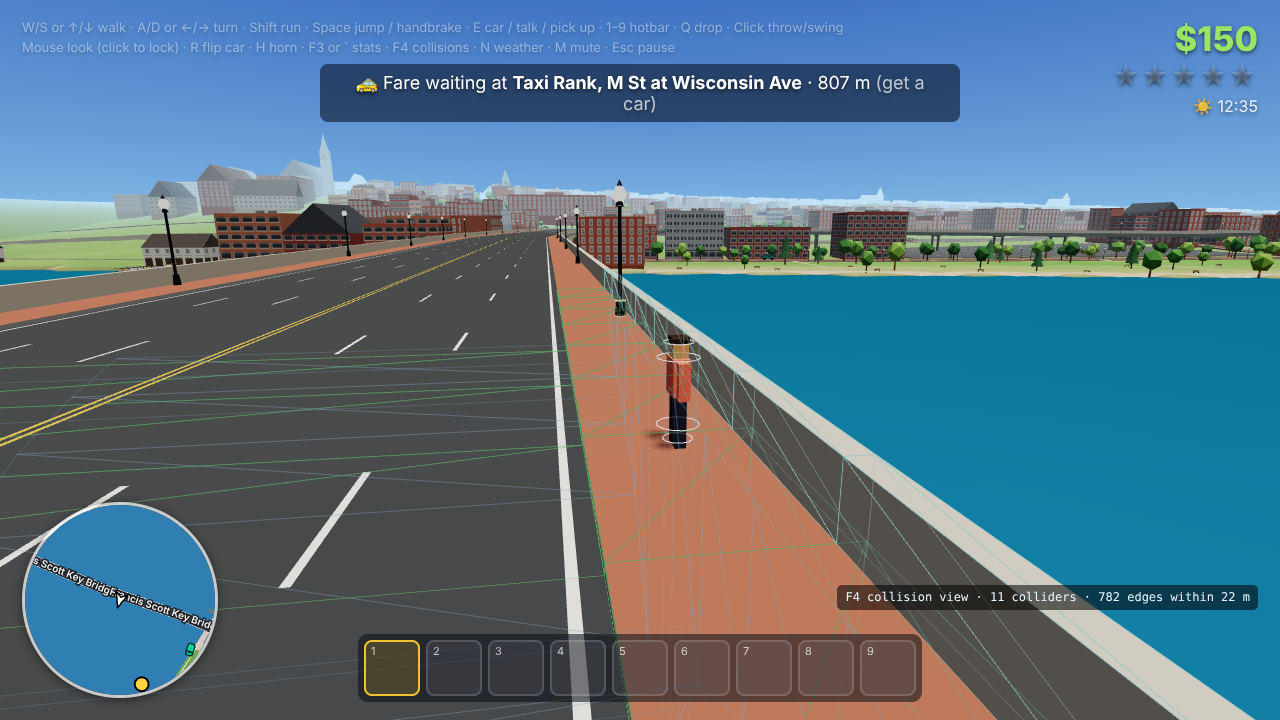
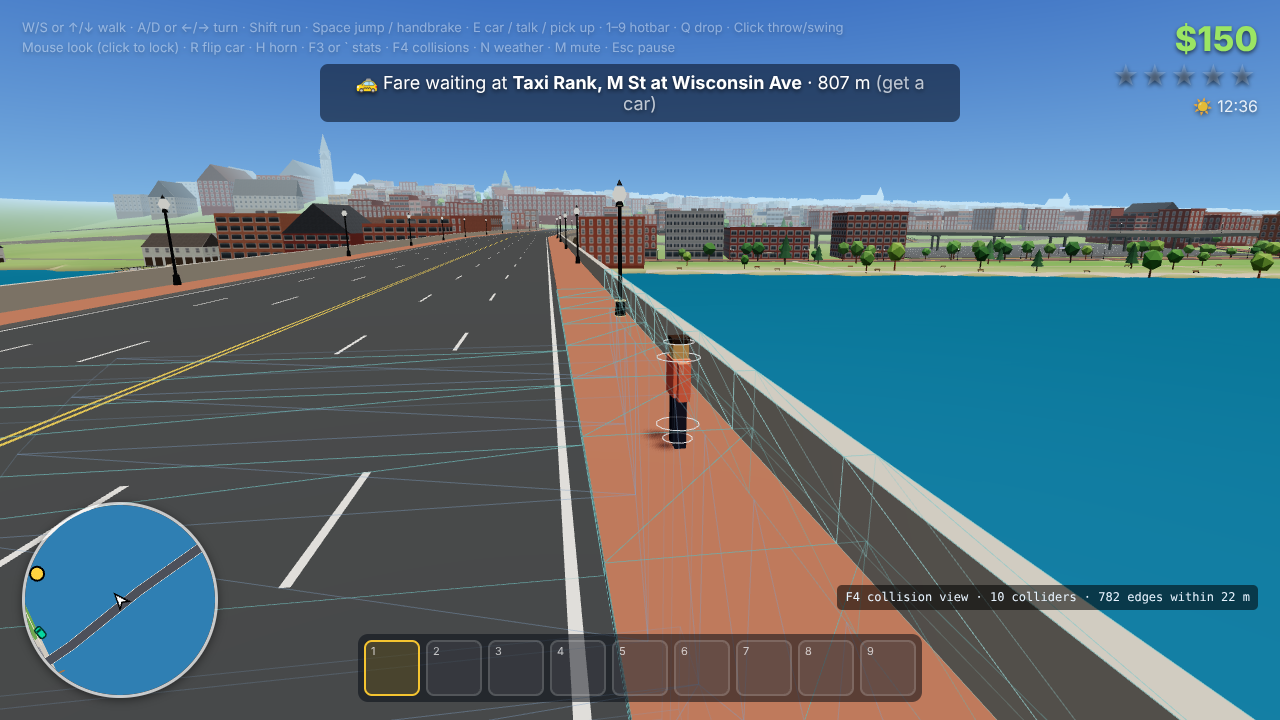
Physics review: DEVLOG and roadmap status, screenshots from the final build
DEVLOG (2026-11-05, Stage 1): the review of item 1 (what was checked, fixed, tested, measured, and what is left).
ROADMAP item 1: done, with the leftovers named. Screenshots: 31-physics-stairs and 31-physics-f4-* retaken on the
final build; new 31-physics-footbridge-north (the north end over the canal wall) and 31-physics-street-trees
(Dumbarton St, trees in the furnishing strip).

Claude-Session: https://claude.ai/code/session_012Y9CQc2geJ2jhDimLjKczQ

diff --git a/DEVLOG.md b/DEVLOG.md
@@ -815,3 +815,58 @@ Format: date · what changed · what to test · known issues.
   - The `stairs` scenario does not walk into a fountain, boat, building or tower (no clear approach found). The audit's side probes cover them.
   - Boot to first frame on Georgetown is 2.4 s longer at 4x throttle (about 0.6 s unthrottled): the extra colliders and the stairwell clipping.
   - Crashspikes on Georgetown spikes up to 150 ms in physics in both the base and this branch. `gate2` and `handling` on Georgetown don't reach their test conditions in the base either.
+
+### Review of item 1 (stairs and collisions), independent check and fixes (branch `s1-physics`)
+
+- **Merge.** main (8192ea1: traffic and police on the lane graph, life on the streets) is merged into `s1-physics`. The conflicts in `main.ts`, `world.ts`, `scenarios.mjs` and this file keep both sides.
+- **The owner's walk-through stairs** were the house stoops (no collider at all before this branch) and the canal steps (buried under the sidewalks, the canal wall across them). Checked on the merged build: 186 of 189 stoops sampled across Georgetown (every 13th of 2,606) are walked up to the landing and back down with W held. The 3 flagged ones are the test's own start position (put against a kerb face or beside a tree), and one stoop whose foot sits in a frontage strip 0.35 m below the sidewalk on a steep street (that was there before; on the base the strip is 0.4–0.5 m lower). All 8 stairs and the 5 stoop heights in `stairs` pass.
+- **`map.heightAt` is now the collider surface** (new `src/systems/map/surfaceIndex.ts`). The ground, kerbs, sidewalks, lots, canal aprons and stair ramps are trimesh colliders; their triangles are kept when the trimeshes are built (`PhysChunks.keepTriangles`) and indexed in 4 m buckets. `heightAt` takes the highest one there (with a height, the highest at most `map.levelStep` above it), and the raster only where no triangle covers the point (inside buildings, open water). Deck carriageways, their kerbs and sidewalks, deck junctions and the footbridges are now `deck` colliders (they were `ground`, so the ground under a bridge would have read as the bridge), and the walk surface reads the deck triangles (with the analytic deck profiles where a deck runs off the map edge past its last triangle) and the boardwalk piers. No allocation per query.
+  - 200,000 random points: heightAt was more than 5 cm off the collider at 1.6 % of the walkable ground (up to 1.3 m by the canal); now 0 of 128,303 points differ by more than 2 cm.
+  - Every bridge lane every 2 m (24,163 points across Key Bridge, the freeway and the street bridges): 61 % were more than 5 cm off (Key Bridge a kerb high, the freeway up to 0.5 m); now 0.
+- **Grid sink.** The grid's ground was one 1 km cuboid. Rapier's shape casts are about 9 cm wrong on a shape that size, and the character sank 5 cm into the ground standing still at a third of the spots tried (not only at the one fallthrough found). The ground and sea floor are now 120 m tiles, one per static body: 0 of 81 spots sink.
+- **Fallthrough's 2 m "hovers"** were the test dropping the capsule inside a bridge deck and a bridge pier (it dropped from 2 m above the terrain under them). It now drops 2 m above whatever covers the spot (`raised`), waits until the player has actually stopped moving (a capsule that lands on a steep bank slides for a few frames: the 0.26 m hover), resets knock-back and keys between drops, and finds a capsule resting on a step's or ledge's edge from the floor under its whole round bottom, skin gap included. `FALL_SEED=<n>` picks another set of points. The criteria are unchanged.
+- **Street trees and lamps.** The synthesized data (`meta.synthetic`) put 137 trees right on the sidewalks' walk links (81 on Dumbarton St, 42 on Potomac St): its sidewalk lines and the generator's road widths differ. A synthesized tree or lamp on a sidewalk now stands in the furnishing strip (`TUNING.geo.streetTreeKerbOffset` 0.7 m, `streetLampKerbOffset` 0.45 m from the kerb) at the same distance along the street. A moved tree is dropped at a junction corner, a driveway, within 7 m of a crossing or 2 m of a lamp or another tree (4,810 trees, was 5,227). Real data is left as it is. Trees within a capsule's reach of a walk link: 137 → 9, all beside diagonal links to corners and crossings; nowhere is a walkway blocked across (no spot without a free 0.7 m gap).
+- **Footbridges from the north.** Both canal footbridges ended on the narrow north bank under the retaining wall (2.7 m and 0.7 m below the land behind it). The north end now runs on just over the wall's coping and, where the land beyond is lower, a short ramp (at most 0.3 rise per metre) takes it down. Walked with W held from both ends of both footbridges: all four get across.
+- **Holes to the safety floor.**
+  - Every canal step's foot had a 5 cm slit down to the safety floor: the stairwell ran on 5 cm past the ramp. The builder's last change (uncommitted when they stopped) fixes it: the stairwell stops exactly where the ramp stops, and at a bend both run on past the joint. A 0.1 m scan of every stair: 0 slits (was 11–128 points per stair).
+  - The 0.3–1 m gaps between neighbouring houses had no floor at all (the raster marks them as building, and the terrain under buildings was dropped). The terrain under buildings is now kept, at natural height capped to the band surfaces next to it, not dipped. 400,000 random points: 68 holes, 23 where a dropped player fell in; now 3 holes, 1 fall. This costs 49,000 ground triangles (render +3 %, ground trimesh +18 %).
+- **Canal steps "up to 40°"**: measured on the collider, every canal step climbs at 31.8° (the drawn treads 32°). 40° is `geo.stairMaxSlope`'s limit, which the current data never reaches. Nothing to fix.
+- **Audit leftovers.** The two "stair flight" floor samples were the towpath under the foot of two canal steps: a drawn face within the upper floor's own tolerance under it now belongs to it. The three stair risers are by design (the ramp runs half a riser above the risers' feet, so a riser face is up to 0.085 / 0.62 = 0.137 m from it): the stair tolerance is 0.14 m. The one-step "stair" left after cutting a data stair back out of a carriageway (0.15 m rise) is a plain path now (`geo.stairMinRise` 0.3 m). Grid tree colliders match the five-sided trunk (0.19 × scale; two probes were 0.10 m out).
+- **Seeded items.** With `heightAt` exact, the item placement's 0.35 m edge probe stopped seeing ledges 0.4–0.6 m away (the raster had smoothed them into it): 23 Georgetown items lay beside a drop of more than 0.5 m (`geolife`'s check). A second probe (`TUNING.items.dropProbe` 0.6 m, `maxDrop` 0.5 m) rules those spots out: 0 now, as on main.
+- **Also tried and checked:** drove the player's car with W held into a building, lamp, bench, signal pole, sign post, bus shelter, railing, wall and column at 34–45 km/h: it stops with its bumper at the collider every time, nothing is passed through. Dropped the player from 40 m at 300 random spots per map: none falls through or ends below the map surface; 7 come to rest with no floor under the capsule's axis, and rerun one by one, 6 of those rest on a building (a roof edge next to the wall they fell along) and 1 on the ground. F4 has no cost when off (one key check).
+- **Test:** `npm run build`, then (each also with `MAP=grid`):
+  - `SAMPLES=3000 MAP=georgetown node scripts/shot.mjs x fallthrough`, and `SAMPLES=10000 FALL_SEED=4242` for another set of points;
+  - `QUERY=physaudit=1 MAP=georgetown node scripts/shot.mjs x physaudit`;
+  - `MAP=georgetown node scripts/shot.mjs 31-physics-stairs stairs` and `... x physf4`;
+  - in the game: walk onto either canal footbridge from the north side (33rd St, by the old warehouses); walk Dumbarton St's sidewalk (the trees stand by the kerb); press F4 on a bridge (decks are their own colour now).
+- **Results (final build):**
+  - `fallthrough`: pass on both maps. Georgetown, 3,000 drops: 1,898 landed, 0 below the surface, 0 where `heightAt` is off the collider (was 15), 0 hovering (was 3), 0 inside a building, 0 not settled; 6 drops raised over a deck or pier. With 10,000 drops on another seed: 6,397 landed, all of those 0 as well, 5 resting on a step's edge. Grid, 2,000 drops: 823 landed, 0 below (was 1); 6,000 on another seed: 2,357 landed, 0 below.
+  - `physaudit`: grid 0 probe and 0 floor mismatches (pass). Georgetown 0 probe mismatches, 6 floor samples: the metro canopy's curved glass against its slabs (5) and a sample between a bench's slats (1).
+  - `stairs`: pass on both maps (all 8 stairs, now 7 after the one-step one became a path; the stoops; footbridge 17.2 m long now; kerb; plinth; bench; Key Bridge and the freeway deck, where the map's walk height now matches the deck: 0.3 m above it before).
+  - `mapcheck` on both maps: pass (0 height mismatches). (Two intermediate versions of the deck fallback failed it on Georgetown, Key Bridge's lanes 14.7 m off at the map edge, or put 399 bridge-end points a kerb off; the final rule passes both checks.)
+  - `world walk drive handling crashspikes gate2 mapcheck theft taxi police witness life` on both maps, and `geodrive geolife` on Georgetown: all exit 0 with a clean console. Grid walk 4.8 m as before. `crashspikes` can't be judged here (other sessions kept the 4-core machine at a load of 16 to 20): grid 11 frames over 33 ms, worst 463 ms in a random section; the merged base had 8, worst 1,376 ms.
+- **Performance.** Georgetown, 4x CPU throttle, 600-frame warm-up, 4 interleaved rounds of main (8192ea1), the builder's work merged (239573a) and this review (d5cc9a9). Medians (range); the machine was loaded by other sessions throughout, so small differences are noise:
+
+  | | main | builder's work | review |
+  |---|---|---|---|
+  | colliders | 10,778 | 24,179 | 23,772 |
+  | ground triangles (physics) | 287 k | 296 k | 345 k |
+  | triangles drawn (whole map) / in view | 1.557 M / 1.005 M | 1.556 M / 1.004 M | 1.593 M / 1.004 M |
+  | draw calls in view | 151 | 150 | 150 |
+  | boot to first frame | 19.0 s (18.0–19.5) | 19.8 s (17.1–21.3) | 21.0 s (17.4–21.4) |
+  | Rapier step alone | 3.2 ms | 2.9 ms | 3.1 ms (0.9–5.5) |
+  | physics section on foot | 3.1 ms (1.8–3.6) | 3.8 ms (3.1–7.7) | 3.8 ms (3.1–5.3) |
+  | physics section in a car | 3.9 ms (3.1–4.8) | 4.0 ms (2.5–5.5) | 5.2 ms (3.2–5.5) |
+  | frame CPU on foot | 5.3 ms | 5.0 ms | 6.1 ms (1.8–7.5) |
+  | garbage per frame | 82 KB | 81 KB | 72 KB |
+  | JS heap after boot | 147 MB | 165 MB | 187 MB (191 MB before the index was slimmed) |
+
+  - Grid, 3 rounds: colliders 1,806 → 2,050; step 1.1 → 1.1 ms; physics on foot 3.5 (2.1–4.1) → 2.2 ms (2.2–2.3); frame on foot 5.2 → 4.1 ms.
+  - The surface index costs about 22 MB of heap (its triangles and bucket lists) and nothing measurable per frame (a query is a few dozen edge tests in one 4 m bucket). The in-car physics section may be about 1 ms higher at 4x (about 0.3 ms real) since the ground trimesh grew by 17 %, but the ranges overlap.
+- **Known issues (left):**
+  - A 20 m slot to the safety floor where the canal meets Rock Creek ((359..378, 266..267), and a narrow one along the creek at x 375–378): the corridor's end and the creek don't meet. A player who walks in falls and is put back on the pavement by the safety check. Two more single holes in 400,000 points.
+  - On steep streets the strip between a house and the sidewalk can lie up to 0.45 m below the sidewalk (0.4–0.5 m on the base too); a stoop's foot then sits in that strip, a step down from the pavement.
+  - 9 street trees stand within a person's reach of a walk link (the diagonal links to corners and crossings); none blocks a walkway.
+  - The metro canopy's curved glass is 0.1–0.4 m off its collider slabs (out of reach from the ground).
+  - The terrain under buildings is drawn (49 k triangles, mostly hidden inside the buildings).
+  - The `stairs` scenario still skips the fountain, boat, building and tower (no clear approach); the audit covers them, and the car was driven into a building.

diff --git a/docs/ROADMAP.md b/docs/ROADMAP.md
@@ -7,7 +7,7 @@ Source: the owner's master prompt of 2026-11-05 ("Open City — complete open-wo
 | System | Status | Notes |
 |---|---|---|
 | Rendering | partial | three.js, one directional sun with shadows, vertex-coloured low-poly materials, day/night lighting, lit windows and lamps at night. No PBR textures yet. |
-| Physics | partial | Rapier. Raycast vehicles, kinematic character controller (numbers in `TUNING.player`), static colliders per 120 m chunk, thrown items as dynamic bodies. Every solid thing the maps draw now has a matching static collider (stoops, every tree, benches, shelters, gravestones, railings, plinths, lock gates, boats...), checked by an automated audit; stairs are ramps under the treads, cut into stairwells; F4 shows the collision shapes. A solid-kinds registry declares static / dynamic / interactive per prop type. No movable props or interiors yet (Stage 2). |
+| Physics | partial | Rapier. Raycast vehicles, kinematic character controller (numbers in `TUNING.player`), static colliders per 120 m chunk, thrown items as dynamic bodies. Every solid thing the maps draw now has a matching static collider (stoops, every tree, benches, shelters, gravestones, railings, plinths, lock gates, boats...), checked by an automated audit; stairs are ramps under the treads, cut into stairwells; F4 shows the collision shapes. On Georgetown `map.heightAt` is the walking-surface collider itself (surfaceIndex.ts). A solid-kinds registry declares static / dynamic / interactive per prop type. No movable props or interiors yet (Stage 2). |
 | World | partial | Georgetown map from a hand-authored knowledge spec (20 to 80 m error), world generator v2 (terrain, roads, kerbs, sidewalks, junctions, Key Bridge, Whitehurst Freeway, canal, waterfront, ~4,000 buildings with facades, props, trees). Grid city at ?map=grid. |
 | Traffic and police | partial | Lane graph with one-ways, signals, stop signs, roundabout yield, lane changes; police dispatch and search on the graph; heat 1 to 5 stars. No arrests, fines or jail yet. |
 | People | partial | Instanced crowd with busyness-based density, dog walkers, joggers, kids (invulnerable), witnesses who call 999, film, flee or confront. |
@@ -23,7 +23,7 @@ Source: the owner's master prompt of 2026-11-05 ("Open City — complete open-wo
 Stages follow the owner's implementation order. Each stage ends with build, Playwright screenshots, console check, DEVLOG, a playable published build and a status update here.
 
 ### Stage 1: fix the foundation
-1. **Stairs and collisions** (priority). Audit every solid thing in the world against its collider: stairs of every kind, stoops and entrance steps, landings, railings, parapets, walls, benches, bins, lamps, signal poles, trees, monuments, piers, fences. Fix the character controller (grounding, step climbing, slopes, jumping, never falling through). F4 physics debug view. Automated stair tests. *Status: mostly done (2026-11-05, branch s1-physics): audit, colliders, stairwells, controller numbers, `physaudit` / `stairs` / `fallthrough` scenarios, F4. `stairs` passes on both maps. `fallthrough` still fails its own criteria: map heights are 5–19 cm off the colliders at 0.8 % of points near band edges (limit 0.2 %), two unexplained 2 m hovers on Georgetown, and one 5.3 cm sink on the grid. Other known issues are in DEVLOG (three data stairs no longer built, trees now block footpaths they stand on).*
+1. **Stairs and collisions** (priority). Audit every solid thing in the world against its collider: stairs of every kind, stoops and entrance steps, landings, railings, parapets, walls, benches, bins, lamps, signal poles, trees, monuments, piers, fences. Fix the character controller (grounding, step climbing, slopes, jumping, never falling through). F4 physics debug view. Automated stair tests. *Status: done (2026-11-05, branch s1-physics, independently reviewed and fixed): audit, colliders, stairwells, controller numbers, `physaudit` / `stairs` / `fallthrough` scenarios, F4. `stairs` and `fallthrough` pass on both maps (fallthrough also with 10,000 drops on another seed); `map.heightAt` now reads the walking-surface colliders themselves. Left over (DEVLOG): a 20 m slot to the safety floor where the canal meets Rock Creek, the metro canopy's curved glass against its collider slabs, and frontage strips up to 0.45 m below the sidewalk on steep streets.*
 2. **Real 1:1 map data.** Replace the knowledge-based Georgetown with real data: Overture Maps (roads with names, classes, one-ways, bridges and levels; sidewalks, crossings, steps and paths; building footprints and heights; places by category; water and land use) and real terrain from public elevation tiles. About 2 x 2 km with a clean edge. Real street names, invented shop names. Attribution in the pause menu and README. *Status: in progress.*
 3. **Roads and terrain.** Correct widths and lane counts, logical connections, crossings, signals, parking, alleys; smooth drivable road surfaces with no artificial bumps or broken seams; keep natural hills off the road. *Status: in progress (with item 2).*
 4. **PBR look.** A material system with procedural PBR textures (asphalt, worn markings, concrete, Georgetown brick sidewalks, granite kerbs, brick in several bonds and colours, painted brick, stone, stucco, clapboard, slate and metal roofs, glass with reflections, window frames, metal, wood, grass, bark, cobbles and old tram tracks), image-based lighting from the sky, filmic tone mapping, soft shadows that cover the city, fog and haze, night lighting, Low/Medium/High presets, no repetition across buildings. *Status: in progress.*
